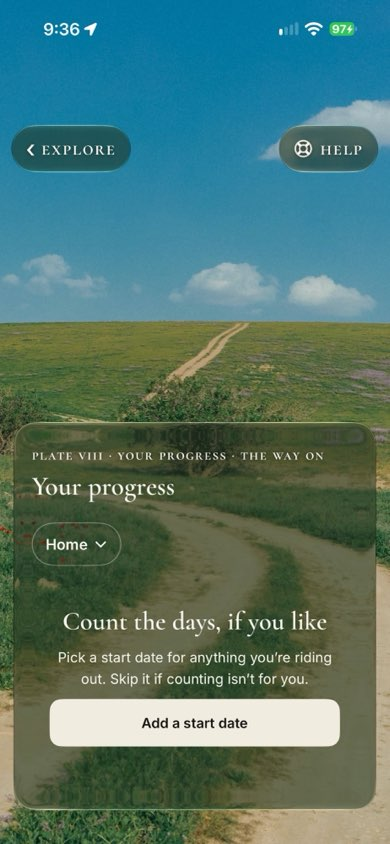
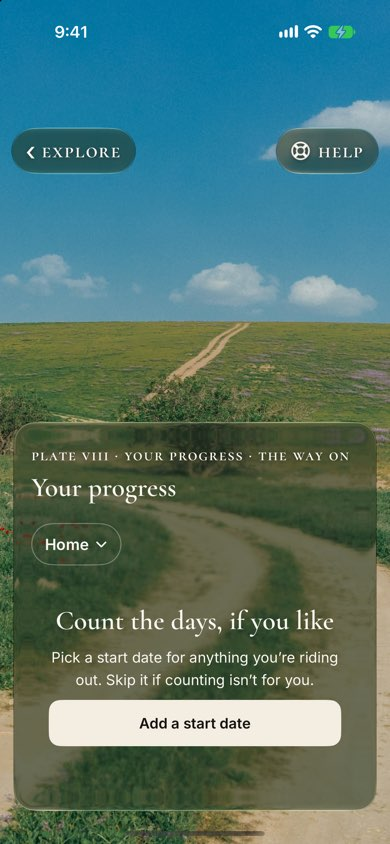
Cove, Your progress and Community screens, day and evening, with the toggle

diff --git a/index.html b/index.html
@@ -69,7 +69,7 @@
 <p class="cap folio-cap">Plate V · The Cove</p>
 <figure class="plate" role="img" aria-label="A sheltered cove"><img class="is-day" src="assets/motion/book/cove.jpg" alt="" loading="lazy" decoding="async"><img class="is-evening" src="assets/motion/book/cove-evening.jpg" alt="" loading="lazy" decoding="async"><video class="loop" data-day="assets/motion/book/cove.mp4" data-evening="assets/motion/book/cove-evening.mp4" muted loop playsinline preload="none" aria-hidden="true" tabindex="-1" disablepictureinpicture></video></figure>
 <div class="words"><h2 id="p5-h">Stay a while.</h2><p class="tag"><i>A sheltered cove to stay a while.</i></p><p>Sit somewhere quiet for a while, until the urge has passed.</p>
-<div class="takes"><span class="cap">In the app</span><span>Stay a while</span></div><figure class="phonefig single" data-app="cove"><div class="phone" role="img" aria-label="The app’s Explore page for The Cove, on an illustrated iPhone"><span class="scr"><img class="pd" src="assets/app/cove-day.jpg" alt="" width="390" height="844" loading="lazy" decoding="async"></span><i class="isl"></i></div><figcaption>Illustration. The Urge Walk app on iPhone.</figcaption></figure></div></section>
+<div class="takes"><span class="cap">In the app</span><span>Stay a while</span></div><figure class="phonefig" data-app="cove"><div class="phone" role="img" aria-label="The app’s Explore page for The Cove, on an illustrated iPhone"><span class="scr"><img class="pd" src="assets/app/cove-day.jpg" alt="" width="390" height="844" loading="lazy" decoding="async"><img class="pe" src="assets/app/cove-evening.jpg" alt="" width="390" height="844" loading="lazy" decoding="async"></span><i class="isl"></i></div><div class="pv" role="group" aria-label="The app’s Explore page for The Cove: light" hidden><button type="button" data-v="day" aria-pressed="true">By day</button><span aria-hidden="true">·</span><button type="button" data-v="evening" aria-pressed="false">By evening</button></div><figcaption>Illustration. The Urge Walk app on iPhone.</figcaption></figure></div></section>
 <section class="pp" id="plate-vi" aria-roledescription="page" aria-labelledby="p6-h">
 <p class="cap folio-cap">Plate VI · The Shelter</p>
 <figure class="plate" role="img" aria-label="A window onto the sea"><img class="is-day" src="assets/motion/book/shelter.jpg" alt="" loading="lazy" decoding="async"><img class="is-evening" src="assets/motion/book/shelter-evening.jpg" alt="" loading="lazy" decoding="async"><video class="loop" data-day="assets/motion/book/shelter.mp4" data-evening="assets/motion/book/shelter-evening.mp4" muted loop playsinline preload="none" aria-hidden="true" tabindex="-1" disablepictureinpicture></video></figure>
@@ -84,7 +84,7 @@
 <p class="cap folio-cap">Plate VIII · The Way On</p>
 <figure class="plate" role="img" aria-label="A track over a rise by day, a boardwalk at dusk"><img class="is-day" src="assets/motion/book/trail.jpg" alt="" loading="lazy" decoding="async"><img class="is-evening" src="assets/motion/book/trail-evening.jpg" alt="" loading="lazy" decoding="async"></figure>
 <div class="words"><h2 id="p8-h">Your progress.</h2><p class="tag"><i>A track over the rise, a boardwalk at dusk.</i></p><p>The urges you have ridden out, and the next milestone along the way.</p>
-<div class="takes"><span class="cap">In the app</span><span>Your progress</span></div><figure class="phonefig single" data-app="your-progress"><div class="phone" role="img" aria-label="The app’s Your progress screen, on an illustrated iPhone"><span class="scr"><img class="pd" src="assets/app/your-progress-day.jpg" alt="" width="390" height="844" loading="lazy" decoding="async"></span><i class="isl"></i></div><figcaption>Illustration. The Urge Walk app on iPhone.</figcaption></figure></div></section>
+<div class="takes"><span class="cap">In the app</span><span>Your progress</span></div><figure class="phonefig" data-app="your-progress"><div class="phone" role="img" aria-label="The app’s Your progress screen, on an illustrated iPhone"><span class="scr"><img class="pd" src="assets/app/your-progress-day.jpg" alt="" width="390" height="844" loading="lazy" decoding="async"><img class="pe" src="assets/app/your-progress-evening.jpg" alt="" width="390" height="844" loading="lazy" decoding="async"></span><i class="isl"></i></div><div class="pv" role="group" aria-label="The app’s Your progress screen: light" hidden><button type="button" data-v="day" aria-pressed="true">By day</button><span aria-hidden="true">·</span><button type="button" data-v="evening" aria-pressed="false">By evening</button></div><figcaption>Illustration. The Urge Walk app on iPhone.</figcaption></figure></div></section>
 <section class="pp" id="plate-ix" aria-roledescription="page" aria-labelledby="p9-h">
 <p class="cap folio-cap">Plate IX · The Cottage</p>
 <figure class="plate" role="img" aria-label="A cottage in the evening light"><img class="is-day" src="assets/motion/book/cottage.jpg" alt="" loading="lazy" decoding="async"><img class="is-evening" src="assets/motion/book/cottage-evening.jpg" alt="" loading="lazy" decoding="async"></figure>
@@ -221,7 +221,7 @@
 <p class="cap age">For adults 18 and older</p></section>
 <section class="pg" id="community" aria-roledescription="page" aria-labelledby="com-h"><p class="cap folio-cap" id="com-h">Community</p>
 <h2 class="pgh">A small room, <em>if you want one.</em></h2>
-<p>A small room on Discord for adults, 18 and older. Optional. Discord is a separate service with its own terms. <a href="community.html">About the community</a> · <a href="https://discord.gg/AAgaXxk43C">Join on Discord</a>.</p></section>
+<p>A small room on Discord for adults, 18 and older. Optional. Discord is a separate service with its own terms. <a href="community.html">About the community</a> · <a href="https://discord.gg/AAgaXxk43C">Join on Discord</a>.</p><figure class="phonefig" data-app="community"><div class="phone" role="img" aria-label="The app’s Community screen, on an illustrated iPhone"><span class="scr"><img class="pd" src="assets/app/community-day.jpg" alt="" width="390" height="844" loading="lazy" decoding="async"><img class="pe" src="assets/app/community-evening.jpg" alt="" width="390" height="844" loading="lazy" decoding="async"></span><i class="isl"></i></div><div class="pv" role="group" aria-label="The app’s Community screen: light" hidden><button type="button" data-v="day" aria-pressed="true">By day</button><span aria-hidden="true">·</span><button type="button" data-v="evening" aria-pressed="false">By evening</button></div><figcaption>Illustration. The Urge Walk app on iPhone.</figcaption></figure></section>
 </div>
 <div class="pair" id="spread-end-2">
 <section class="pg" id="keep" aria-roledescription="page" aria-labelledby="keep-h"><p class="cap folio-cap" id="keep-h">Keep it on your phone</p>

diff --git a/community.html b/community.html
@@ -22,6 +22,7 @@
 <main id="main" class="page read">
 <div class="leafhead"><p class="cap">Urge Walk · Community</p><h1 id="page-h">Community</h1></div>
 <article class="reading" aria-labelledby="page-h"><p class="lead">A quiet space for adults, on Discord. It is optional, and the app works fully without it.</p>
+<figure class="phonefig read-phone" data-app="community"><div class="phone" role="img" aria-label="The app’s Community screen, on an illustrated iPhone"><span class="scr"><img class="pd" src="assets/app/community-day.jpg" alt="" width="390" height="844" loading="lazy" decoding="async"><img class="pe" src="assets/app/community-evening.jpg" alt="" width="390" height="844" loading="lazy" decoding="async"></span><i class="isl"></i></div><div class="pv" role="group" aria-label="The app’s Community screen: light" hidden><button type="button" data-v="day" aria-pressed="true">By day</button><span aria-hidden="true">·</span><button type="button" data-v="evening" aria-pressed="false">By evening</button></div><figcaption>Illustration. The Urge Walk app on iPhone.</figcaption></figure>
 <h2>What it is</h2>
 <p>A sobriety-focused room on Discord, run by Urge Walk. Members help choose where the island goes next, by poll in the Discord. Suggestions are always welcome.</p>
 <h2>Adults only</h2>

diff --git a/book.css b/book.css
@@ -478,3 +478,5 @@ html[data-light=evening] .phonefig:not([data-view]) .pe,.phonefig[data-view=even
 }
 .phonefig.single .pd{opacity:1!important}
 @media (max-width:899px){html.js .pp:has(.phonefig) .plate{height:17svh}}
+.read-phone{margin:calc(var(--bl)*3) auto;align-items:center;--ph:min(46svh,380px)}
+.read-phone figcaption{text-align:center}
